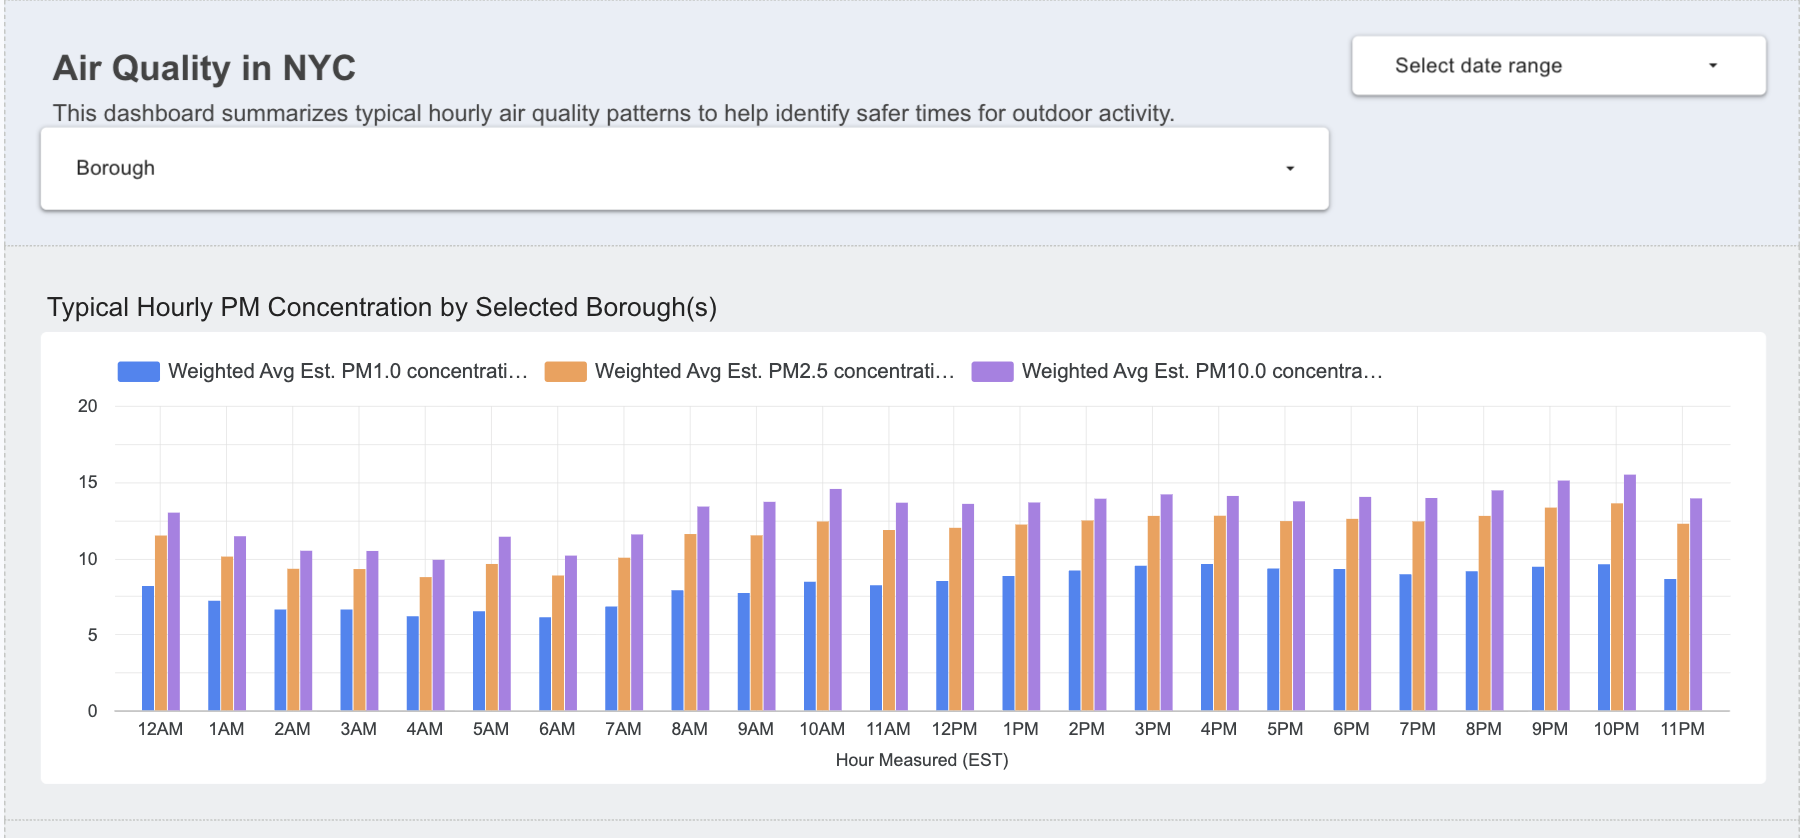
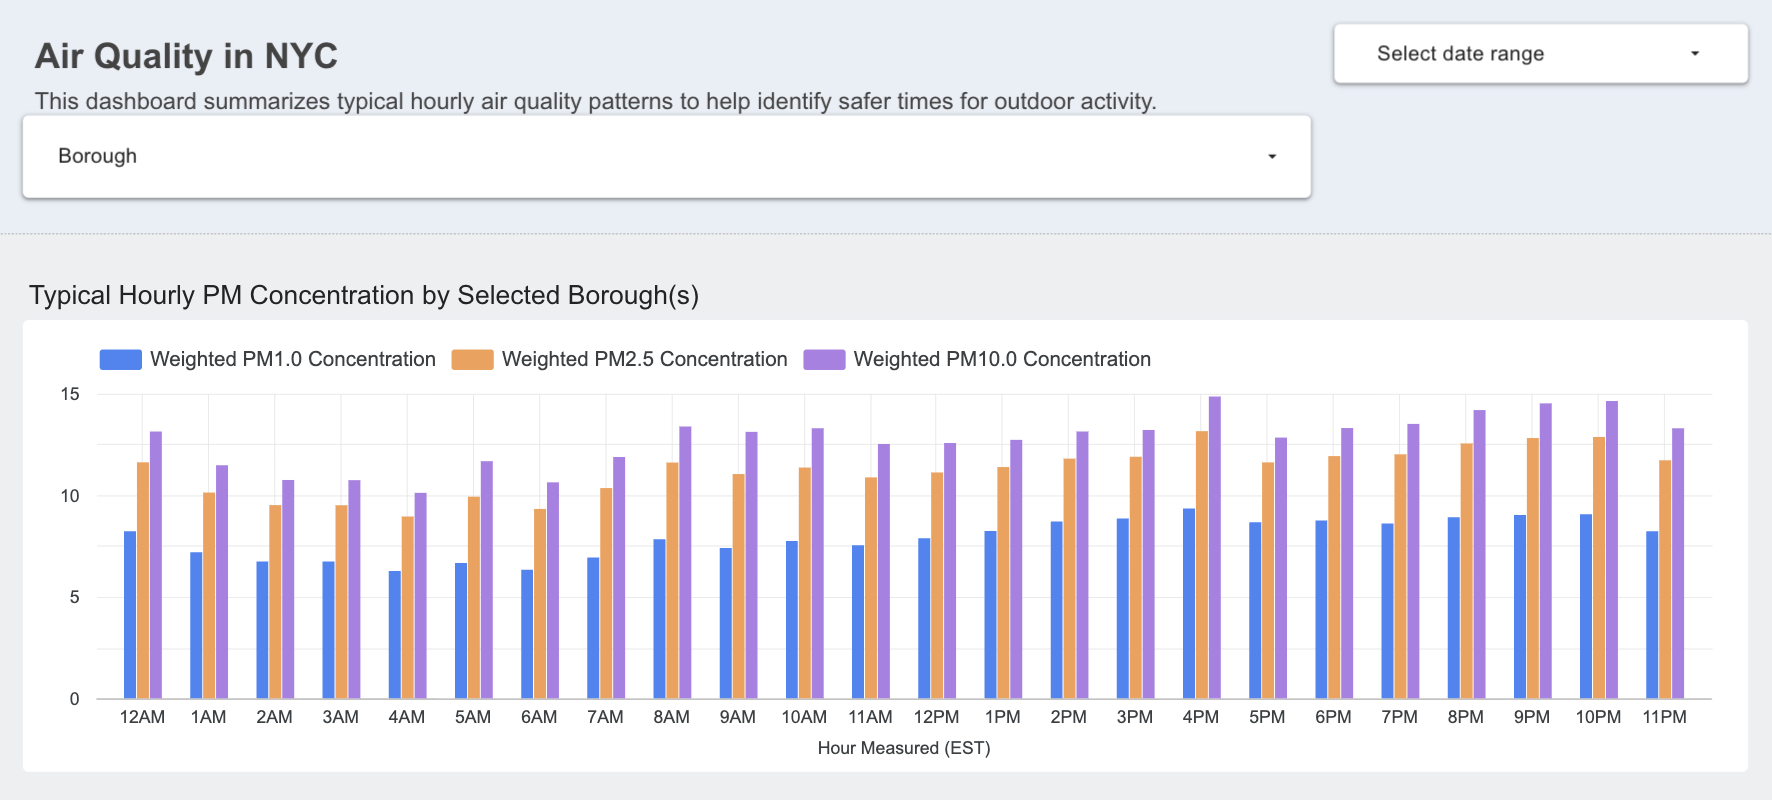
minor edits to pictures and README for final submission

diff --git a/README.md b/README.md
@@ -97,7 +97,7 @@ Partitioning and clustering choices for each major table:
 ## Dashboard
 
 The dashboard is built in **Looker Studio** (Google Data Studio) and is directly connected to the BigQuery warehouse. It provides:
-- **Tile 1:** Average hourly PM 1.0, 2.5, and 10.0 concentrations (time series bar chart).
+- **Tile 1:** Typical hourly PM 1.0, PM2.5, and PM10.0 concentrations by selected borough(s) (time series bar chart).
 - **Tile 2:** Best and Worst Times to Be Outside (PM2.5 Levels - most critical air pollutant for lung health according to USEPA) with threshold of 'moderate air quality' (helpful to see when air quality is at a good level).
 - **Tile 3:** Distribution of selected air quality sensors by borough (categorical pie chart) - (without filters, shows distribution of all air quality sensors by borough since all sensors are selected).
 - **Map/Table:** Interactive map and table of sensor IDs, names, and altitudes at which they are placed.
@@ -108,21 +108,21 @@ Users can filter by borough, date range, and sensor.
 
 The screenshots below show static previews of the live dashboard views available in Looker Studio (recently named back to Data Studio).
 
-**Tile 1: Average hourly PM concentrations by borough**
+**Tile 1: Typical Hourly PM Concentrations by Selected Borough(s)**
 
-![Tile 1 - Average hourly PM concentrations by borough](pictures/Tile1.png)
+![Tile 1 - Typical Hourly PM Concentrations by Selected Borough(s)](pictures/Tile1.png)
 
-**Tile 2: Best and worst times to be outside**
+**Tile 2: Best and Worst Times to be Outside**
 
-![Tile 2 - Best and worst times to be outside](pictures/Tile2.png)
+![Tile 2 - Best and Worst Times to be Outside (PM2.5)](pictures/Tile2.png)
 
-**Tile 3: Sensor distribution by borough**
+**Tile 3: Distribution of Selected Air Quality Sensors by Borough**
 
-![Tile 3 - Sensor distribution by borough](pictures/Tile3.png)
+![Tile 3 - Distribution of Selected Air Quality Sensors by Borough](pictures/Tile3.png)
 
 **Map and table: Sensor locations and details**
 
-![Tile 4 - Sensor locations and details](pictures/Tile4.png)
+![Tile 4 - Sensor Locations and Details](pictures/Tile4.png)
 
 **How to access:**
 Please go to the link here for the dashboard: [Air Quality in NYC](https://datastudio.google.com/u/0/reporting/83b8ded9-d636-4757-9621-51fc4c99688f/page/KgtuF)
